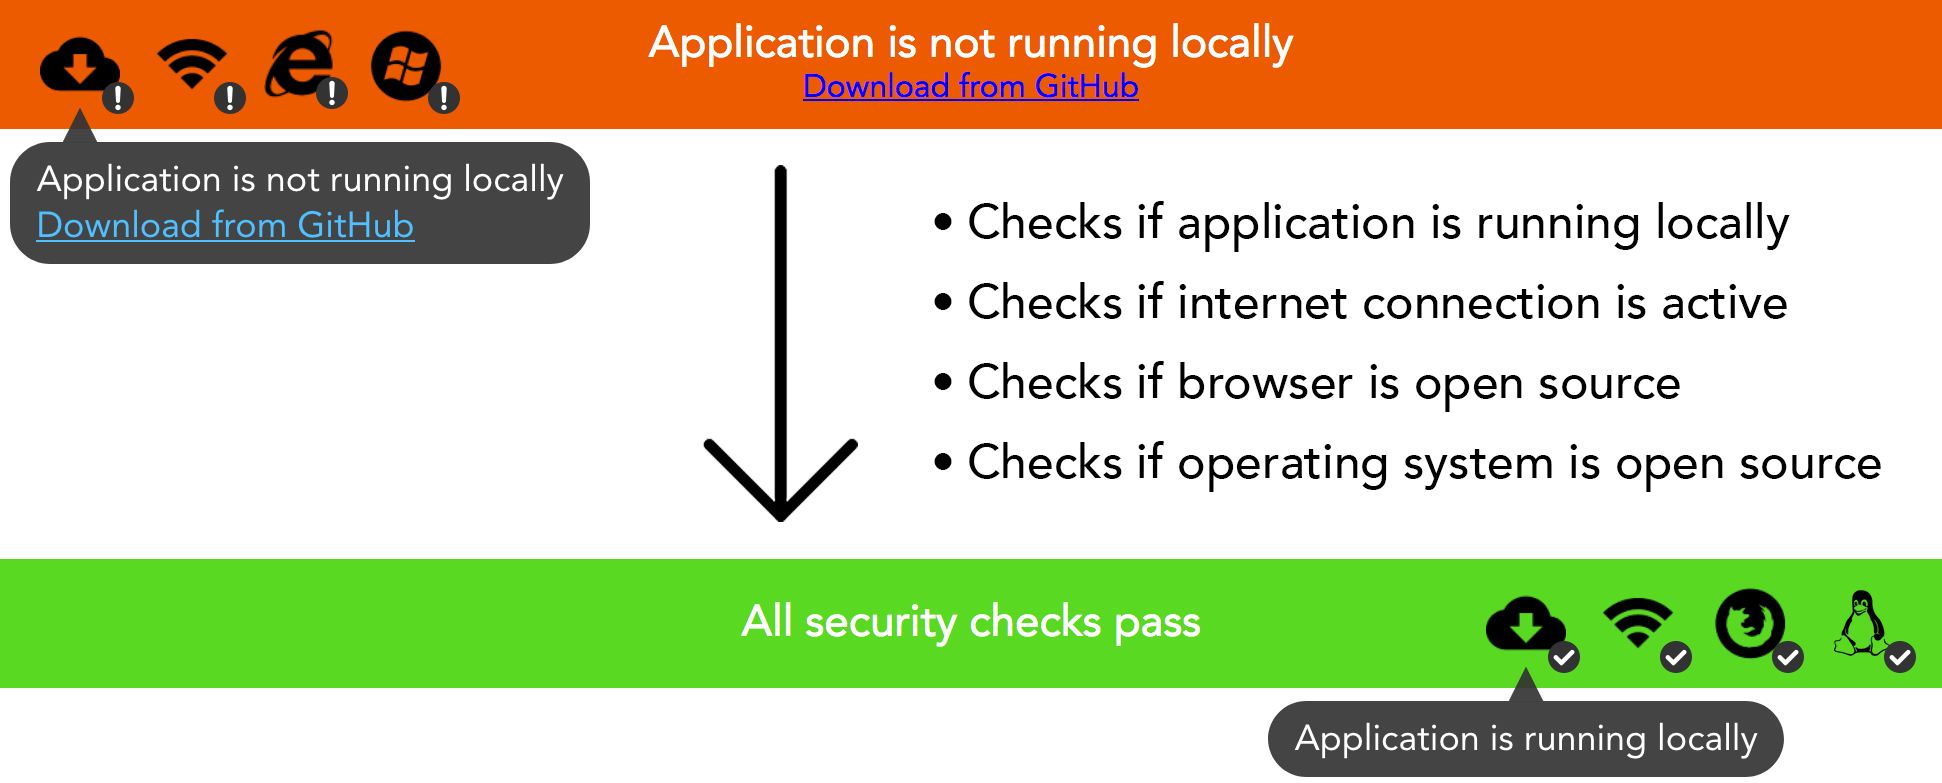
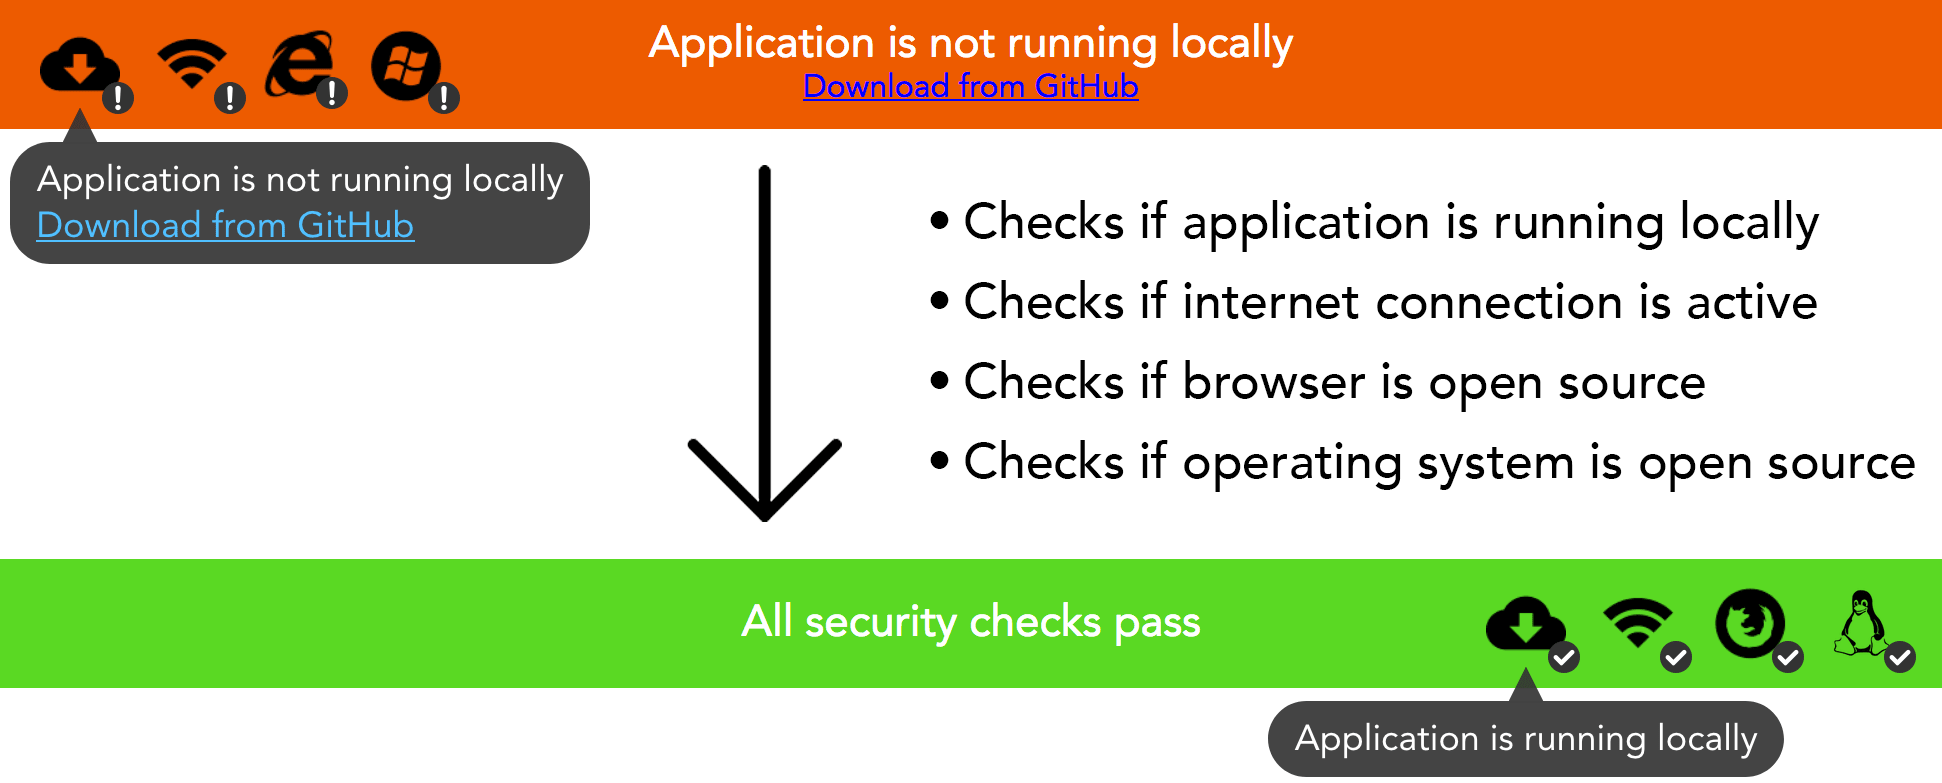
open source -> open-source updated sample_print.png updated notice_bars.png

diff --git a/js/DivControllers.js b/js/DivControllers.js
@@ -298,7 +298,7 @@ function IntroController(div, onSelectGenerate, onSelectImport) {
 			getSlide($(mixImg), "Create cold storage for multiple cryptocurrencies.").appendTo(sliderDiv);
 			getSlide($("<img src='img/printer.png'>"), "Print paper wallets for long term storage.").appendTo(sliderDiv);
 			getSlide($("<img src='img/security.png'>"), "Runs only in your browser so funds are never entrusted to a third party.").appendTo(sliderDiv);
-			getSlide($("<img src='img/microscope.png'>"), "100% open source and free to use.  No account necessary.").appendTo(sliderDiv);
+			getSlide($("<img src='img/microscope.png'>"), "100% open-source and free to use.  No account necessary.").appendTo(sliderDiv);
 			getSlide($("<img src='img/keys.png'>"), "Passphrase protect and split private keys for maximum security.").appendTo(sliderDiv);
 			getSlide($("<img src='img/checklist.png'>"), "Generate keys securely with automated environment checks.").appendTo(sliderDiv);
 			
@@ -419,7 +419,7 @@ function HomeController(div) {
 			// download section
 			pageDiv.append("<div style='height: 70px'>");
 			pageDiv.append("<div class='home_label'>Download our 100% free and open-source software and run it offline</div>");
-			pageDiv.append("<div class='home_description'>Feel confident in the software you’re using. Inspect the source code and know that your money is secure. CryptoStorage is open source, so the community can maintain it indefinitely.</div>")
+			pageDiv.append("<div class='home_description'>Feel confident in the software you’re using. Inspect the source code and know that your money is secure. CryptoStorage is open-source, so the community can maintain it indefinitely.</div>")
 			var licenseDiv = $("<div class='flex_horizontal'>").appendTo(pageDiv);
 			var mitImg = $().appendTo(licenseDiv);
 			licenseDiv.append("<a href='./LICENSE.txt'><img src='img/mit.png' class='license_img'></a>");
@@ -517,7 +517,7 @@ function FaqController(div) {
 				{
 					id: "faq_what_is_cryptostorage",
 					getQuestion: function() { return "What is cryptostorage.com?"; },
-					getAnswer: function() { return "Cryptostorage.com is an open source application to generate public/private key pairs for multiple cryptocurrencies.  This site runs only in your device's browser."; }
+					getAnswer: function() { return "Cryptostorage.com is an open-source application to generate public/private key pairs for multiple cryptocurrencies.  This site runs only in your device's browser."; }
 				}, {
 					id: "faq_key_pair",
 					getQuestion: function() { return "What is a public/private key pair?" },
@@ -542,8 +542,8 @@ function FaqController(div) {
 						var recommendationsList = $("<ol>").appendTo(answerDiv);
 						recommendationsList.append("<li>Download, verify, and run the source code offline, not from the cryptostorage.com domain.</li>");
 						recommendationsList.append("<li>Run the source code on a device that is disconnected from the internet and will ideally never be connected to the internet again.</li>");
-						recommendationsList.append("<li>Run the source code in an open source browser like Firefox or Chromium.</li>");
-						recommendationsList.append("<li>Run the source code on an open source operating system like Tails, Ubuntu, or Raspbian for the Raspberry Pi.</li>");
+						recommendationsList.append("<li>Run the source code in an open-source browser like Firefox or Chromium.</li>");
+						recommendationsList.append("<li>Run the source code on an open-source operating system like Tails, Ubuntu, or Raspbian for the Raspberry Pi.</li>");
 						return answerDiv;
 					}
 				}, {
@@ -3412,11 +3412,11 @@ function NoticeController(div, config) {
 			// interpret environment code and state
 			switch (check.code) {
 				case AppUtils.EnvironmentCode.BROWSER:
-					if (check.state === "pass") div.append("Browser is open source (" + info.browser.name + ")");
+					if (check.state === "pass") div.append("Browser is open-source (" + info.browser.name + ")");
 					else {
 						var content = $("<div>").appendTo(div);
 						if (check.state === "fail") content.append("<div class='notice_bar_center_major'>Browser is not supported (" + info.browser.name + " " + info.browser.version + ")</div>");
-						else content.append("<div class='notice_bar_center_major'>Browser is not open source (" + info.browser.name + ")</div>");
+						else content.append("<div class='notice_bar_center_major'>Browser is not open-source (" + info.browser.name + ")</div>");
 						content.append("<div class='notice_bar_center_minor'>Recommended browsers: <a target='_blank' href='https://www.mozilla.org/en-US/firefox/'>Firefox</a> or <a target='_blank' href='https://www.chromium.org/getting-involved/download-chromium'>Chromium</a>");
 					}
 					break;
@@ -3444,10 +3444,10 @@ function NoticeController(div, config) {
 					}
 					break;
 				case AppUtils.EnvironmentCode.OPERATING_SYSTEM:
-					if (check.state === "pass") div.append("Operating system is open source (" + info.os.name + ")");
+					if (check.state === "pass") div.append("Operating system is open-source (" + info.os.name + ")");
 					else {
 						var content = $("<div>").appendTo(div);
-						content.append("<div class='notice_bar_center_major'>Operating system is not open source (" + info.os.name + ")</div>");
+						content.append("<div class='notice_bar_center_major'>Operating system is not open-source (" + info.os.name + ")</div>");
 						content.append("<div class='notice_bar_center_minor'>Recommended operating systems: <a target='_blank' href='https://tails.boum.org'>Tails</a>, <a target='_blank' href='https://www.ubuntu.com/download/desktop'>Ubuntu</a>, or <a target='_blank' href='https://www.raspberrypi.org'>Raspbian for the Raspberry Pi</a>");
 					}
 					break;

diff --git a/js/AppUtils.js b/js/AppUtils.js
@@ -1391,7 +1391,7 @@ var AppUtils = {
 			return false;
 		}
 		
-		// determines if browser is open source
+		// determines if browser is open-source
 		function isOpenSourceBrowser(browserName) {
 			if (arrayContains(AppUtils.OPEN_SOURCE_BROWSERS, browserName)) return true;
 			if (arrayContains(AppUtils.CLOSED_SOURCE_BROWSERS, browserName)) return false;
@@ -1545,13 +1545,13 @@ var AppUtils = {
 			else checks.push({state: "warn", code: AppUtils.EnvironmentCode.INTERNET});
 		}
 		
-		// check open source browser
+		// check open-source browser
 		if (info.browser && info.browser.isSupported) {
 			if (info.browser.isOpenSource) checks.push({state: "pass", code: AppUtils.EnvironmentCode.BROWSER});
 			else checks.push({state: "warn", code: AppUtils.EnvironmentCode.BROWSER});
 		}
 		
-		// check open source os
+		// check open-source os
 		if (isInitialized(info.os)) {
 			if (info.os.isOpenSource) checks.push({state: "pass", code: AppUtils.EnvironmentCode.OPERATING_SYSTEM});
 			else checks.push({state: "warn", code: AppUtils.EnvironmentCode.OPERATING_SYSTEM});
